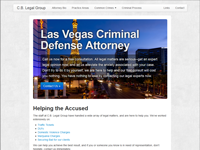
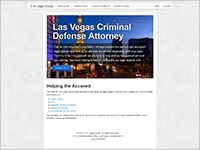
adjustments to portfolio

diff --git a/portfolio.html b/portfolio.html
@@ -4,26 +4,27 @@
 <title>Jason Papakostas - Portfolio</title>
 <meta name="viewport" content="width=device-width, initial-scale=1.0">
 <!-- Bootstrap -->
-<link href="css/bootstrap.css" rel="stylesheet" media="screen">
+<link href="stylesheets/stylesheet.css" rel="stylesheet" media="screen">
 <style>
-body {
+/*body {
   padding-top: 60px;
   padding-bottom: 60px;
-}
-.screenshot {
-  float: left;
-  margin-right: 30px;
-  /*background-color: blue;*/
-}
-.screenshot img {
-  max-width: 200px;
-  max-height: 150px;
-}
+}*/
 .portfolio-item {
   clear: both;
   /*background-color: red;*/
   overflow: hidden;
   margin-top: 30px;
+  box-shadow: 0 0 10px rgba(0,0,0,.2);
+}
+.portfolio-item img {
+  float: left;
+  margin: 0px;
+  width: 200px;
+  height: 150px;
+  padding-right: 10px;
+  border: none;
+  box-shadow: none;
 }
 .title {
   /*font-size: 2em;*/
@@ -31,13 +32,14 @@ body {
   line-height: 40px;
 }
 .about {
+  padding: 10px;
   /*float: right;*/
   /*background-color: green;*/
 }
-.container-narrow {
+/*.container-narrow {
   max-width: 700px;
   margin: 0 auto;
-}
+}*/
 </style>
 </head>
 <body>
@@ -51,67 +53,88 @@ body {
   </div>
 </div> -->
 
-<div class="container-narrow">
-  <h1>Portfolio of Jason Papakostas</h1>
+<!-- <div class="container-narrow"> -->
+  
+  <!-- HEADER -->
+  <div id="header_wrap" class="outer">
+      <header class="inner">
+        <!-- <a id="forkme_banner" href="https://github.com/vith">View on GitHub</a> -->
+
+        <h1 id="project_title">Jason Papakostas</h1>
+        <h2 id="project_tagline">Portfolio</h2>
+
+      </header>
+  </div>
+
+    <!-- MAIN CONTENT -->
+    <div id="main_content_wrap" class="outer">
+      <section id="main_content" class="inner">
+
   <div class="portfolio-item">
-    <div class="screenshot">
-      <a href="https://github.com/vith/imgurdl"><img src="imgurdl.png" alt="imgurdl screenshot"></a>
-    </div>
+    <a href="https://github.com/vith/imgurdl">
+      <img src="imgurdl.png" alt="imgurdl screenshot">
+    </a>
     <div class="about">
       <div class="title"><a href="https://github.com/vith/imgurdl">imgurdl</a></div>
       <div class="description">Go command line tool for batch downloading albums or single images from imgur.com</div>
     </div>
   </div>
   <div class="portfolio-item">
-    <a href="http://cblegalgroup.com"><img src="cblegalgroup.png" alt="cblegalgroup.com screenshot" class="screenshot"></a>
+    <a href="http://cblegalgroup.com">
+      <img src="cblegalgroup.png" alt="cblegalgroup.com screenshot">
+    </a>
     <div class="about">
       <div class="title"><a href="http://cblegalgroup.com">cblegalgroup.com</a></div>
       <div class="description">Website for a law firm</div>
     </div>
   </div>
   <div class="portfolio-item">
-    <div class="screenshot"><a href="https://github.com/vith/vithKF"><img src="vithKF.png" alt="vithKF screenshot"></a></div>
+    <a href="https://github.com/vith/vithKF">
+      <img src="vithKF.png" alt="vithKF screenshot">
+    </a>
     <div class="about">
       <div class="title"><a href="https://github.com/vith/vithKF">vithKF</a></div>
-      <div class="description">Helper utility the game Killing Floor. Options for borderless fullscreen windowed mode, crosshair, and windowed mode gamma correction.</div>
+      <div class="description">Tweaks for the game Killing Floor. Borderless fullscreen windowed mode, custom crosshair, and windowed mode gamma correction.</div>
     </div>
   </div>
   <div class="portfolio-item">
-    <div class="screenshot"><a href="https://docs.google.com/spreadsheet/ccc?key=0Ao8N8eHwHK4KdENDZmVxbWZURlU2bG0tZTZtSnhuWVE"><img src="d3-jc.png" alt="Diablo III Jewelcrafting Spreadsheet screenshot"></a></div>
+    <a href="https://docs.google.com/spreadsheet/ccc?key=0Ao8N8eHwHK4KdENDZmVxbWZURlU2bG0tZTZtSnhuWVE">
+      <img src="d3-jc.png" alt="Diablo III Jewelcrafting Spreadsheet screenshot">
+    </a>
     <div class="about">
       <div class="title"><a href="https://docs.google.com/spreadsheet/ccc?key=0Ao8N8eHwHK4KdENDZmVxbWZURlU2bG0tZTZtSnhuWVE">Diablo III Jewelcrafting Spreadsheet</a></div>
       <div class="description">Spreadsheet for calculating the profitability of any jewelcrafting operation in Diablo III</div>
     </div>
   </div>
   <div class="portfolio-item">
-    <div class="screenshot"><a href="https://github.com/vith/GuildActivityRewardSystem"><img src="gars.png" alt=""></a></div>
+    <a href="https://github.com/vith/GuildActivityRewardSystem">
+      <img src="gars.png" alt="GuildActivityRewardSystem screenshot">
+    </a>
     <div class="about">
       <div class="title"><a href="https://github.com/vith/GuildActivityRewardSystem">GuildActivityRewardSystem</a></div>
       <div class="description">World of Warcraft addon to track and reward guild members for earning guild XP</div>
     </div>
   </div>
   <div class="portfolio-item">
-    <div class="screenshot"><a href="https://userscripts.org/scripts/show/43943"><img src="qlasf.jpg" alt=""></a></div>
+    <a href="https://userscripts.org/scripts/show/43943">
+      <img src="qlasf.jpg" alt="Quake Live Advanced Server Filter screenshot">
+    </a>
     <div class="about">
       <div class="title"><a href="https://userscripts.org/scripts/show/43943">Quake Live Advanced Server Filter</a></div>
       <div class="description">Greasemonkey script for <a href="http://quakelive.com">quakelive.com</a>: blacklist undesired servers; fade out empty ones.</div>
     </div>
   </div>
   <div class="portfolio-item">
-    <div class="screenshot"><a href="https://github.com/vith/d3-gear-swap"><img src="d3-gear-swap.png" alt=""></a></div>
+    <a href="https://github.com/vith/d3-gear-swap">
+      <img src="d3-gear-swap.png" alt="d3-gear-swap screenshot">
+    </a>
     <div class="about">
       <div class="title"><a href="https://github.com/vith/d3-gear-swap">d3-gear-swap</a></div>
       <div class="description">Python script for <a href="http://www.sikuli.org">Sikuli</a> to swap between Diablo III gear sets with a single keypress. Supports multiple screen resolutions.</div>
     </div>
   </div>
-<!--   <div class="portfolio-item">
-    <div class="screenshot"><a href=""><img src="" alt=""></a></div>
-    <div class="about">
-      <div class="title"><a href=""></a></div>
-      <div class="description"></div>
+      </section>
     </div>
-  </div> -->
-</div>
 
 </body>
 </html>

diff --git a/index.html b/index.html
@@ -64,7 +64,7 @@ $ git checkout gh-pages
     <!-- FOOTER  -->
     <div id="footer_wrap" class="outer">
       <footer class="inner">
-        <p>Published with <a href="http://pages.github.com">GitHub Pages</a></p>
+        <!-- <p>Published with <a href="http://pages.github.com">GitHub Pages</a></p> -->
       </footer>
     </div>
 
